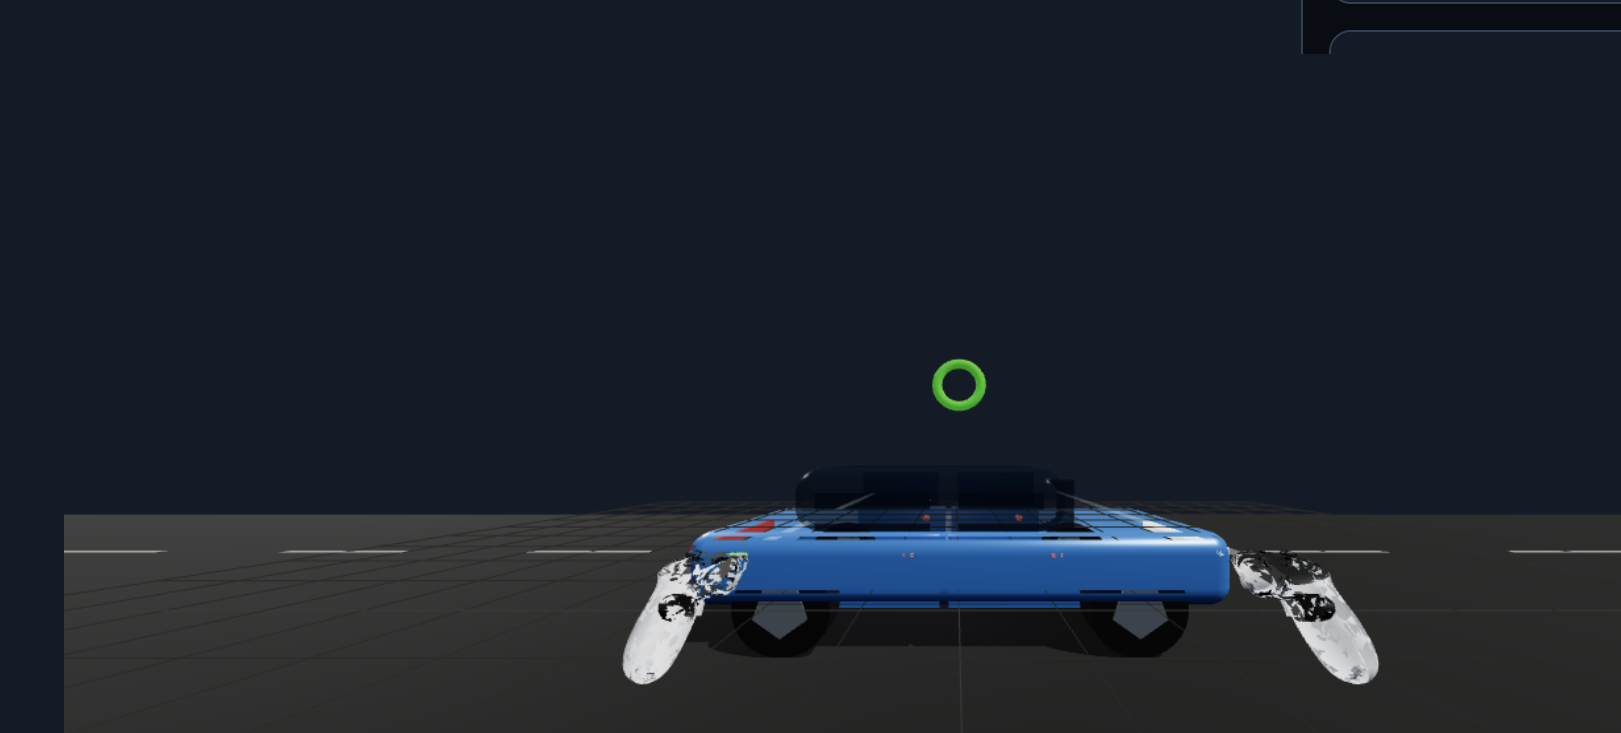
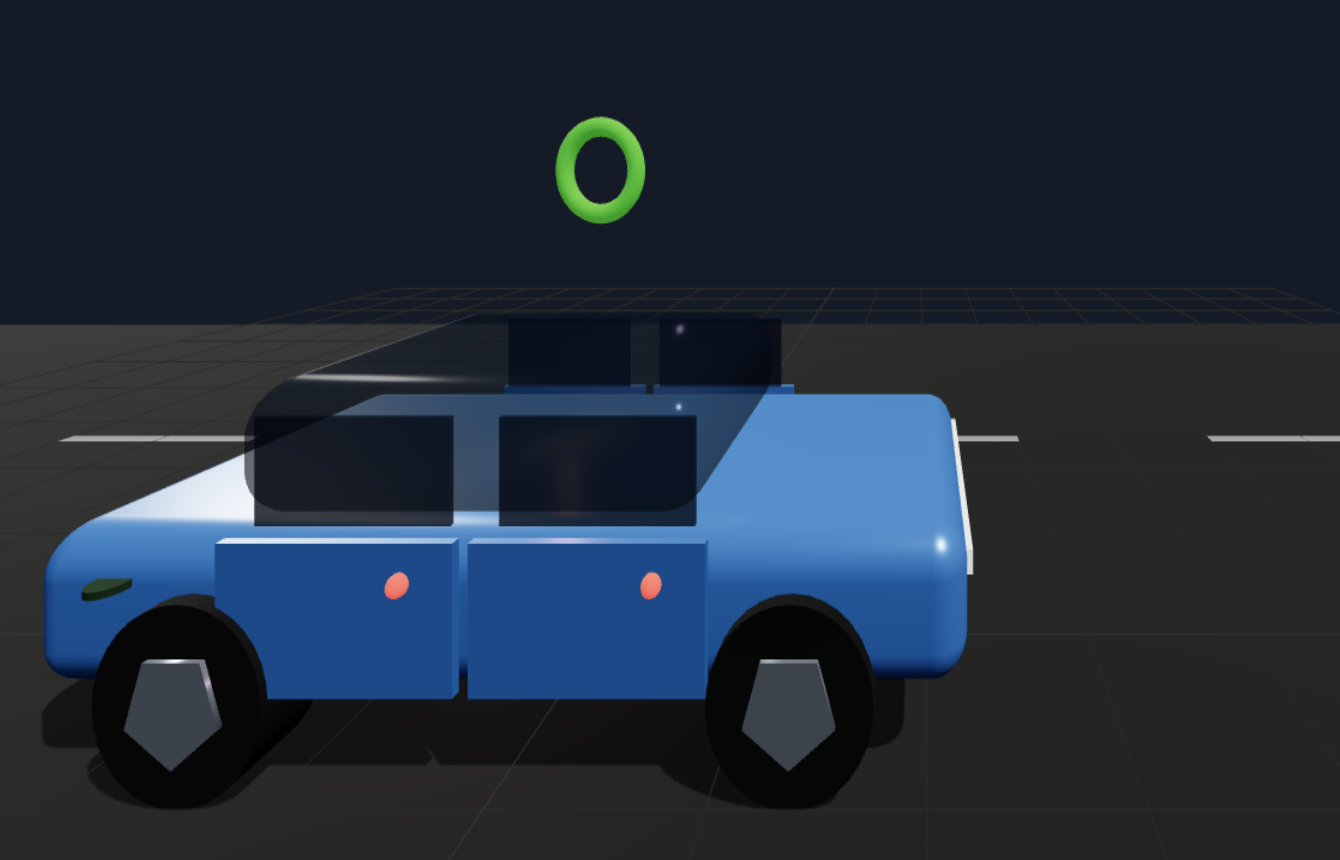
Fix contact shadows in immersive gallery capture

diff --git a/host/dashboard/src/Car.tsx b/host/dashboard/src/Car.tsx
@@ -275,8 +275,9 @@ export function CarTwin({ tel, offline, verdict = null, pending = 0 }: Props) {
           <directionalLight position={[6, 9, 4]} intensity={2.6} castShadow shadow-mapSize={[2048, 2048]} />
           <directionalLight position={[-6, 4, -5]} intensity={1.2} />
           <Vehicle tel={tel} />
-          <ContactShadows position={[0, 0.01, 0]} opacity={0.35} scale={12} blur={1.2} far={3} resolution={512} />
           <IfInSessionMode deny={["immersive-vr", "immersive-ar"]}>
+            {/* The offscreen contact-shadow pass must not render through an XR camera. */}
+            <ContactShadows position={[0, 0.01, 0]} opacity={0.35} scale={12} blur={1.2} far={3} resolution={512} />
             <OrbitControls enablePan={false} minDistance={5} maxDistance={14} maxPolarAngle={Math.PI / 2.1} target={[0, 0.7, 0]} />
           </IfInSessionMode>
           <IfInSessionMode>

diff --git a/docs/submission/recording-2026-11-21.md b/docs/submission/recording-2026-11-21.md
@@ -41,4 +41,6 @@ The refreshed PNGs are direct captures of the live local dashboard, except for t
 
 The UI clearly labels **QNX 8.0 · QEMU emulation** and omits absolute emulated policy latency from the histogram and event feed. The WebXR image is from a Meta Quest 3 emulator, not a physical headset.
 
+The WebXR recapture also exposed an offscreen contact-shadow pass rendering through the XR camera. Contact shadows now run only in the regular dashboard view; directional shadows remain in XR. The corrected emulator capture uses a closer, unsaved headset pose with the emulated controllers disconnected so they do not obscure the car. The 1340×860 PNG is a direct crop of that canvas, and the full dashboard capture is retained as `XrCorrectedContext.png` in the operations directory.
+
 See the [signed record and target results](../evidence/demo-2026-11-21/README.md) for the three decisions, publication of `@decionis/verify@0.6.1`, ten kernel refusals, flood result and 31-check self-test.
